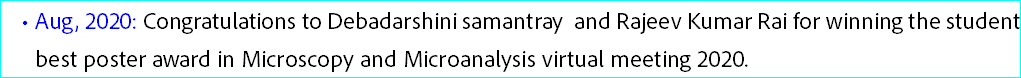
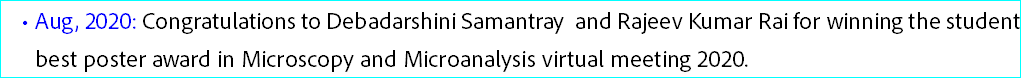
updated
Website updated

diff --git a/publication-2016-2020.html b/publication-2016-2020.html
@@ -68,7 +68,7 @@
      <a class="nonblock nontext Button rounded-corners clearfix grpelem" id="buttonu9361" href="publications-pre-2000.html"><!-- container box --><img class="grpelem" id="u9362" alt="pre-2000" src="images/blank.gif"/><!-- state-based BG images --></a>
     </div>
     <img class="colelem" id="u9298-310" alt="2020
-176. D. Chatterjee, A. Kumar, P. Bellare, N. Ravishankar; Designing complex radial heterostructures of Te/Bi2Te3 and Te/Bi2-xPb x Te3 nanowires: fundamental mechanistic insights into nanowire growth and evolution. The Journal of Physical Chemistry C 125 (5), 3102-3109
+176. D. Chatterjee, A. Kumar, P. Bellare, N. Ravishankar; Designing complex radial heterostructures of Te/Bi2Te3 and Te/Bi2-xPb x Te3 nanowires: fundamental mechanistic insights into nanowire growth and evolution. Nanotechnology 32 (10), 105601
 175. T. Ahmed, P. Bellare, R. Debnath, A. Roy, N. Ravishankar, A. Ghosh; Thermal History-Dependent Current Relaxation in hBN/MoS2 van der Waals Dimers. ACS nano 14 (5), 5909-5916
 174. P. Bellare, N. Sakhuja, S. Kundu, N. Bhat, N. Ravishankar; Self-Assembled Nanostructured Tin Oxide Thin Films at the Air–Water Interface for Selective H2S Detection. ACS Applied Nano Materials 3 (4), 3730-3740
 173. G. Prakash, S. Kundu, A. Roy, A. K. Singh, N. Ravishankar and A. K. Sood; Carrier Dynamics in Ultrathin Au Nanowires: Role of Auger Processes. Plasmonics, 2020 15:1151–1158
@@ -104,7 +104,7 @@
 147. N. Barman, S. Tripathi, N. Ravishankar, K. B. R. Varma; Centrosymmetric tetragonal tellurium doped calcium copper titanate and its dielectric tunability; Solid State Communications, 2016, 241, 7-13
 146. O. E. Femi, N. Ravishankar, K. Chattopadhyay; Microstructure evolution and thermoelectric properties of Te-poor and Te-rich (Bi, Sb)2Te3 prepared via solidification. Journal of Materials Science, 2016, 51 (15), 7254-7265
 145. A. Leelavathi, N. Ravishankar, G. Madras; Enhanced preferential CO oxidation on Zn2SnO4 supported Au nanoparticles: support and H2 effects. Journal of Materials Chemistry A, 2016, 4 (37), 14430-14436
-144. S. Kundu, N. Ravishankar; Rapid synthesis of hybrids and hollow PdO nanostructures by controlled in situ dissolution of a ZnO nanorod template: insights into the formation mechanism and thermal stability. Nanoscale, 2016, 8 (3), 1462-1469 " width="1022" height="2848" src="images/u9298-310.png"/><!-- rasterized frame -->
+144. S. Kundu, N. Ravishankar; Rapid synthesis of hybrids and hollow PdO nanostructures by controlled in situ dissolution of a ZnO nanorod template: insights into the formation mechanism and thermal stability. Nanoscale, 2016, 8 (3), 1462-1469 " width="1022" height="2816" src="images/u9298-310.png"/><!-- rasterized frame -->
     <div class="verticalspacer"></div>
     <a class="nonblock nontext colelem" id="u9363-4" href="http://www.musefree.com"><!-- rasterized frame --><img id="u9363-4_img" alt="Website designed by: NRSgroup" width="1000" height="18" src="images/u9363-4.png"/></a>
    </div>

diff --git a/in-the-news.html b/in-the-news.html
@@ -56,8 +56,8 @@
       </div>
      </nav>
     </div>
-    <img class="colelem" id="u9529-6" alt="Feb-22, 2021: Debadarshini samantray completed her PhD and successfully defended her thesis. NRSgroup wishes her all the best for the future endeavour. " width="1021" height="78" src="images/u9529-6.png"/><!-- rasterized frame -->
-    <img class="colelem" id="u9530-8" alt="Aug, 2020: Congratulations to Debadarshini samantray and Rajeev Kumar Rai for winning the student best poster award in Microscopy and Microanalysis virtual meeting 2020. " width="1021" height="78" src="images/u9530-8.png"/><!-- rasterized frame -->
+    <img class="colelem" id="u9529-6" alt="Feb-22, 2021: Debadarshini Samantaray completed her PhD and successfully defended her thesis. NRSgroup wishes her all the best for the future endeavour. " width="1021" height="78" src="images/u9529-6.png"/><!-- rasterized frame -->
+    <img class="colelem" id="u9530-8" alt="Aug, 2020: Congratulations to Debadarshini Samantray and Rajeev Kumar Rai for winning the student best poster award in Microscopy and Microanalysis virtual meeting 2020. " width="1021" height="78" src="images/u9530-8.png"/><!-- rasterized frame -->
     <div class="clearfix colelem" id="u8653"><!-- group -->
      <div class="clip_frame grpelem" id="u8623"><!-- image -->
       <img class="block" id="u8623_img" src="images/apmc-group.jpg" alt="" width="369" height="277"/>
